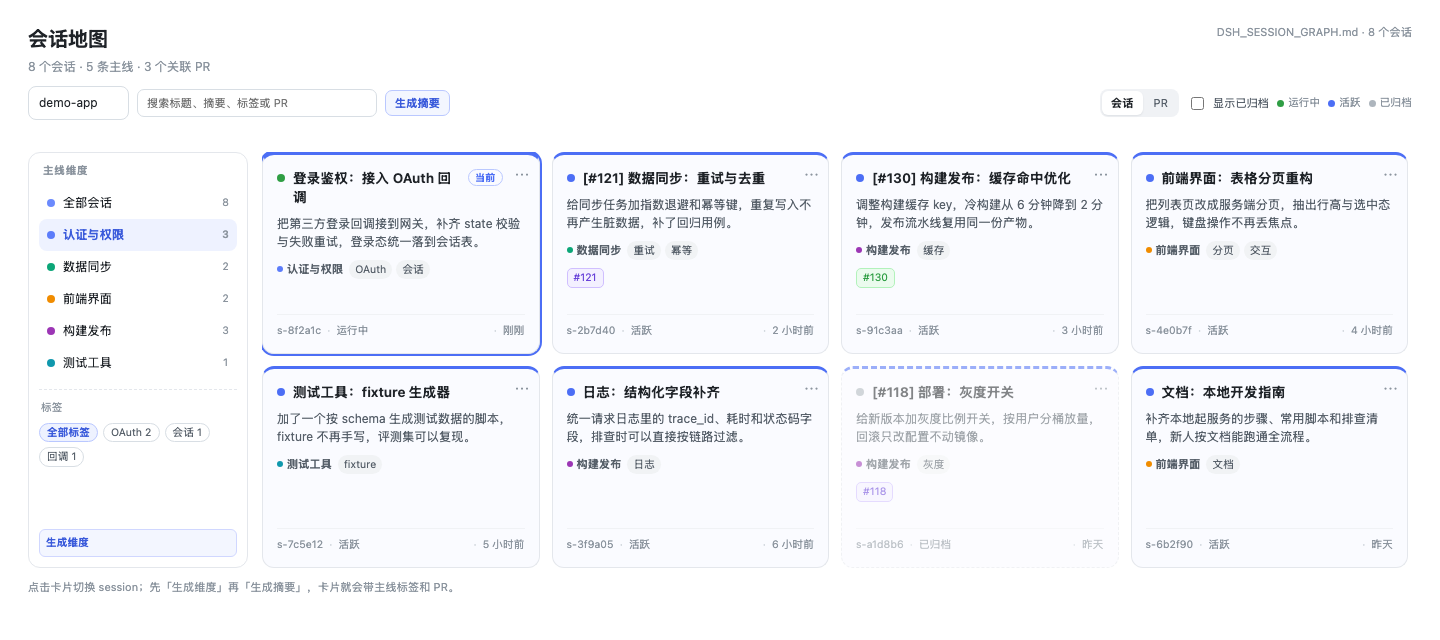
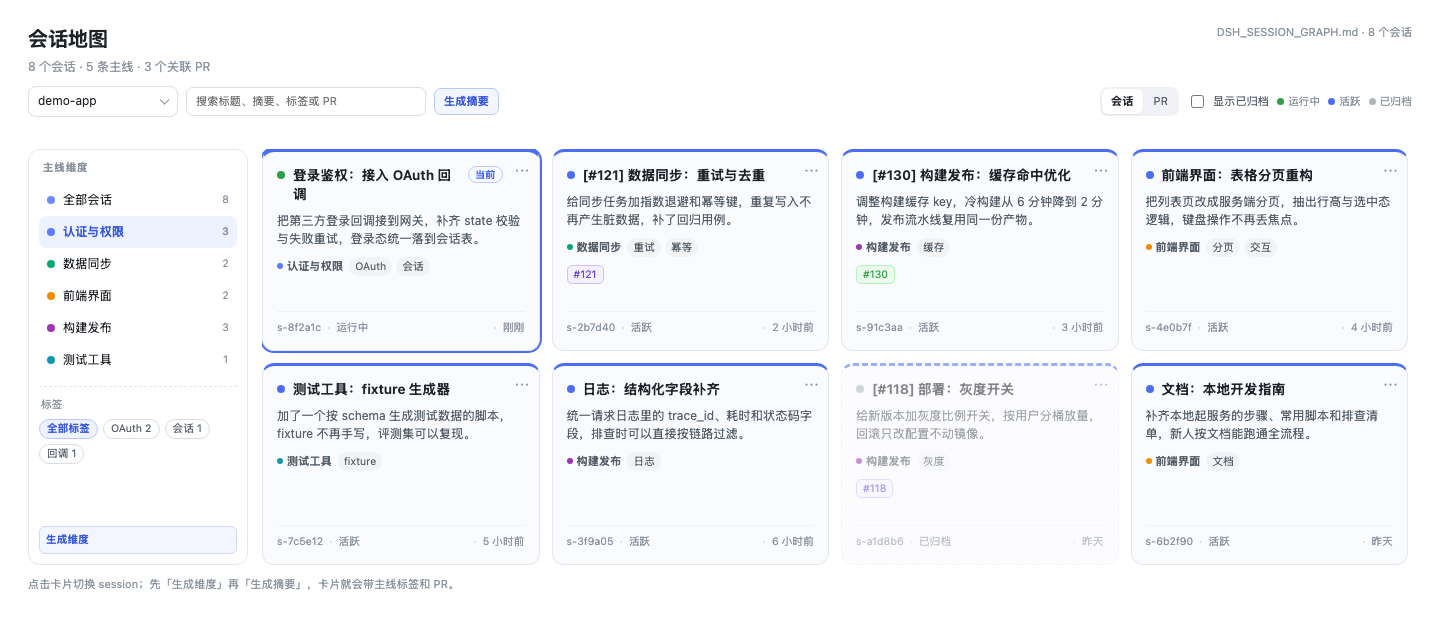
style: compact project picker with a stable border and caret (0.7.7)
- wrap the native select so its border cannot be overridden by host select styles
- cap the picker at 150px and add an explicit chevron on the right
- show the full project name on hover and regenerate the preview

diff --git a/lib/client.js b/lib/client.js
@@ -313,9 +313,11 @@ window.__ModuleLoader__.load({
 .dsm-picker { width: min(520px, calc(100% - 40px)); padding: 28px 24px; border: 1px solid var(--dsw-alias-border-l2, #e4e7ec); border-radius: 16px; background: var(--dsw-alias-bg-layer-1, #fff); text-align: center; }
 .dsm-picker h1 { margin: 0 0 8px; font-size: 18px; font-weight: 650; }
 .dsm-picker p { margin: 0 0 16px; color: var(--dsw-alias-label-tertiary, #8b949e); font-size: 12px; line-height: 1.6; }
-.dsm-picker select, .dsm-project-select { appearance: none; border: 1px solid var(--dsw-alias-border-l2, #d8dee4); background: var(--dsw-alias-bg-layer-1, #fff); color: var(--dsw-alias-label-primary, #1f2328); border-radius: 8px; padding: 7px 30px 7px 10px; font: inherit; font-size: 12px; max-width: 100%; cursor: pointer; }
-.dsm-picker select { min-width: 220px; }
-.dsm-project-select { max-width: 180px; }
+.dsm-picker select { appearance: none; border: 1px solid #d8dee4; background: var(--dsw-alias-bg-layer-1, #fff); color: var(--dsw-alias-label-primary, #1f2328); border-radius: 8px; padding: 7px 30px 7px 10px; font: inherit; font-size: 12px; max-width: 100%; cursor: pointer; min-width: 220px; }
+.dsm-select-wrap { position: relative; display: inline-flex; align-items: center; flex: none; width: 150px; max-width: 100%; box-sizing: border-box; border: 1px solid #d8dee4; border-radius: 8px; background: var(--dsw-alias-bg-layer-1, #fff); }
+.dsm-select-wrap:focus-within { border-color: #bac8ff; box-shadow: 0 0 0 2px rgba(186, 200, 255, .35); }
+.dsm-project-select { appearance: none; width: 100%; min-width: 0; box-sizing: border-box; border: 0; border-radius: 0; background: transparent; color: var(--dsw-alias-label-primary, #1f2328); padding: 6px 26px 6px 9px; font: inherit; font-size: 12px; line-height: 1.4; cursor: pointer; text-overflow: ellipsis; white-space: nowrap; overflow: hidden; }
+.dsm-select-caret { position: absolute; right: 9px; top: 50%; width: 6px; height: 6px; border-right: 1.5px solid #8b949e; border-bottom: 1.5px solid #8b949e; transform: translateY(-68%) rotate(45deg); pointer-events: none; }
 .dsm-search { appearance: none; border: 1px solid var(--dsw-alias-border-l2, #d8dee4); background: var(--dsw-alias-bg-layer-1, #fff); color: var(--dsw-alias-label-primary, #1f2328); border-radius: 7px; padding: 5px 9px; font: inherit; font-size: 11px; width: 240px; max-width: 100%; }
 .dsm-search:focus { outline: 2px solid #bac8ff; outline-offset: 0; }
 .dsm-toggle { display: flex; align-items: center; gap: 6px; color: var(--dsw-alias-label-secondary, #57606a); font-size: 11px; cursor: pointer; user-select: none; white-space: nowrap; }
@@ -1001,18 +1003,22 @@ window.__ModuleLoader__.load({
 				}, sourceText)
 			]);
 
-			const projectSelect = h("select", {
-				key: "project",
-				className: "dsm-project-select",
-				value: projectId,
-				"aria-label": tr("page.pickProject"),
-				onChange: (event) => selectProject(event.target.value)
-			}, [
-				h("option", { key: "switch", value: "" }, tr("page.switchProject")),
-				...projectItems.map((item) => h("option", {
-					key: item.workspaceId,
-					value: item.workspaceId
-				}, item.title || item.path))
+			const projectSelect = h("span", { key: "project", className: "dsm-select-wrap" }, [
+				h("select", {
+					key: "select",
+					className: "dsm-project-select",
+					value: projectId,
+					title: selectedProject === undefined ? "" : (selectedProject.title || selectedProject.path),
+					"aria-label": tr("page.pickProject"),
+					onChange: (event) => selectProject(event.target.value)
+				}, [
+					h("option", { key: "switch", value: "" }, tr("page.switchProject")),
+					...projectItems.map((item) => h("option", {
+						key: item.workspaceId,
+						value: item.workspaceId
+					}, item.title || item.path))
+				]),
+				h("span", { key: "caret", className: "dsm-select-caret", "aria-hidden": true })
 			]);
 
 			const viewButton = (name, label) => h("button", {
